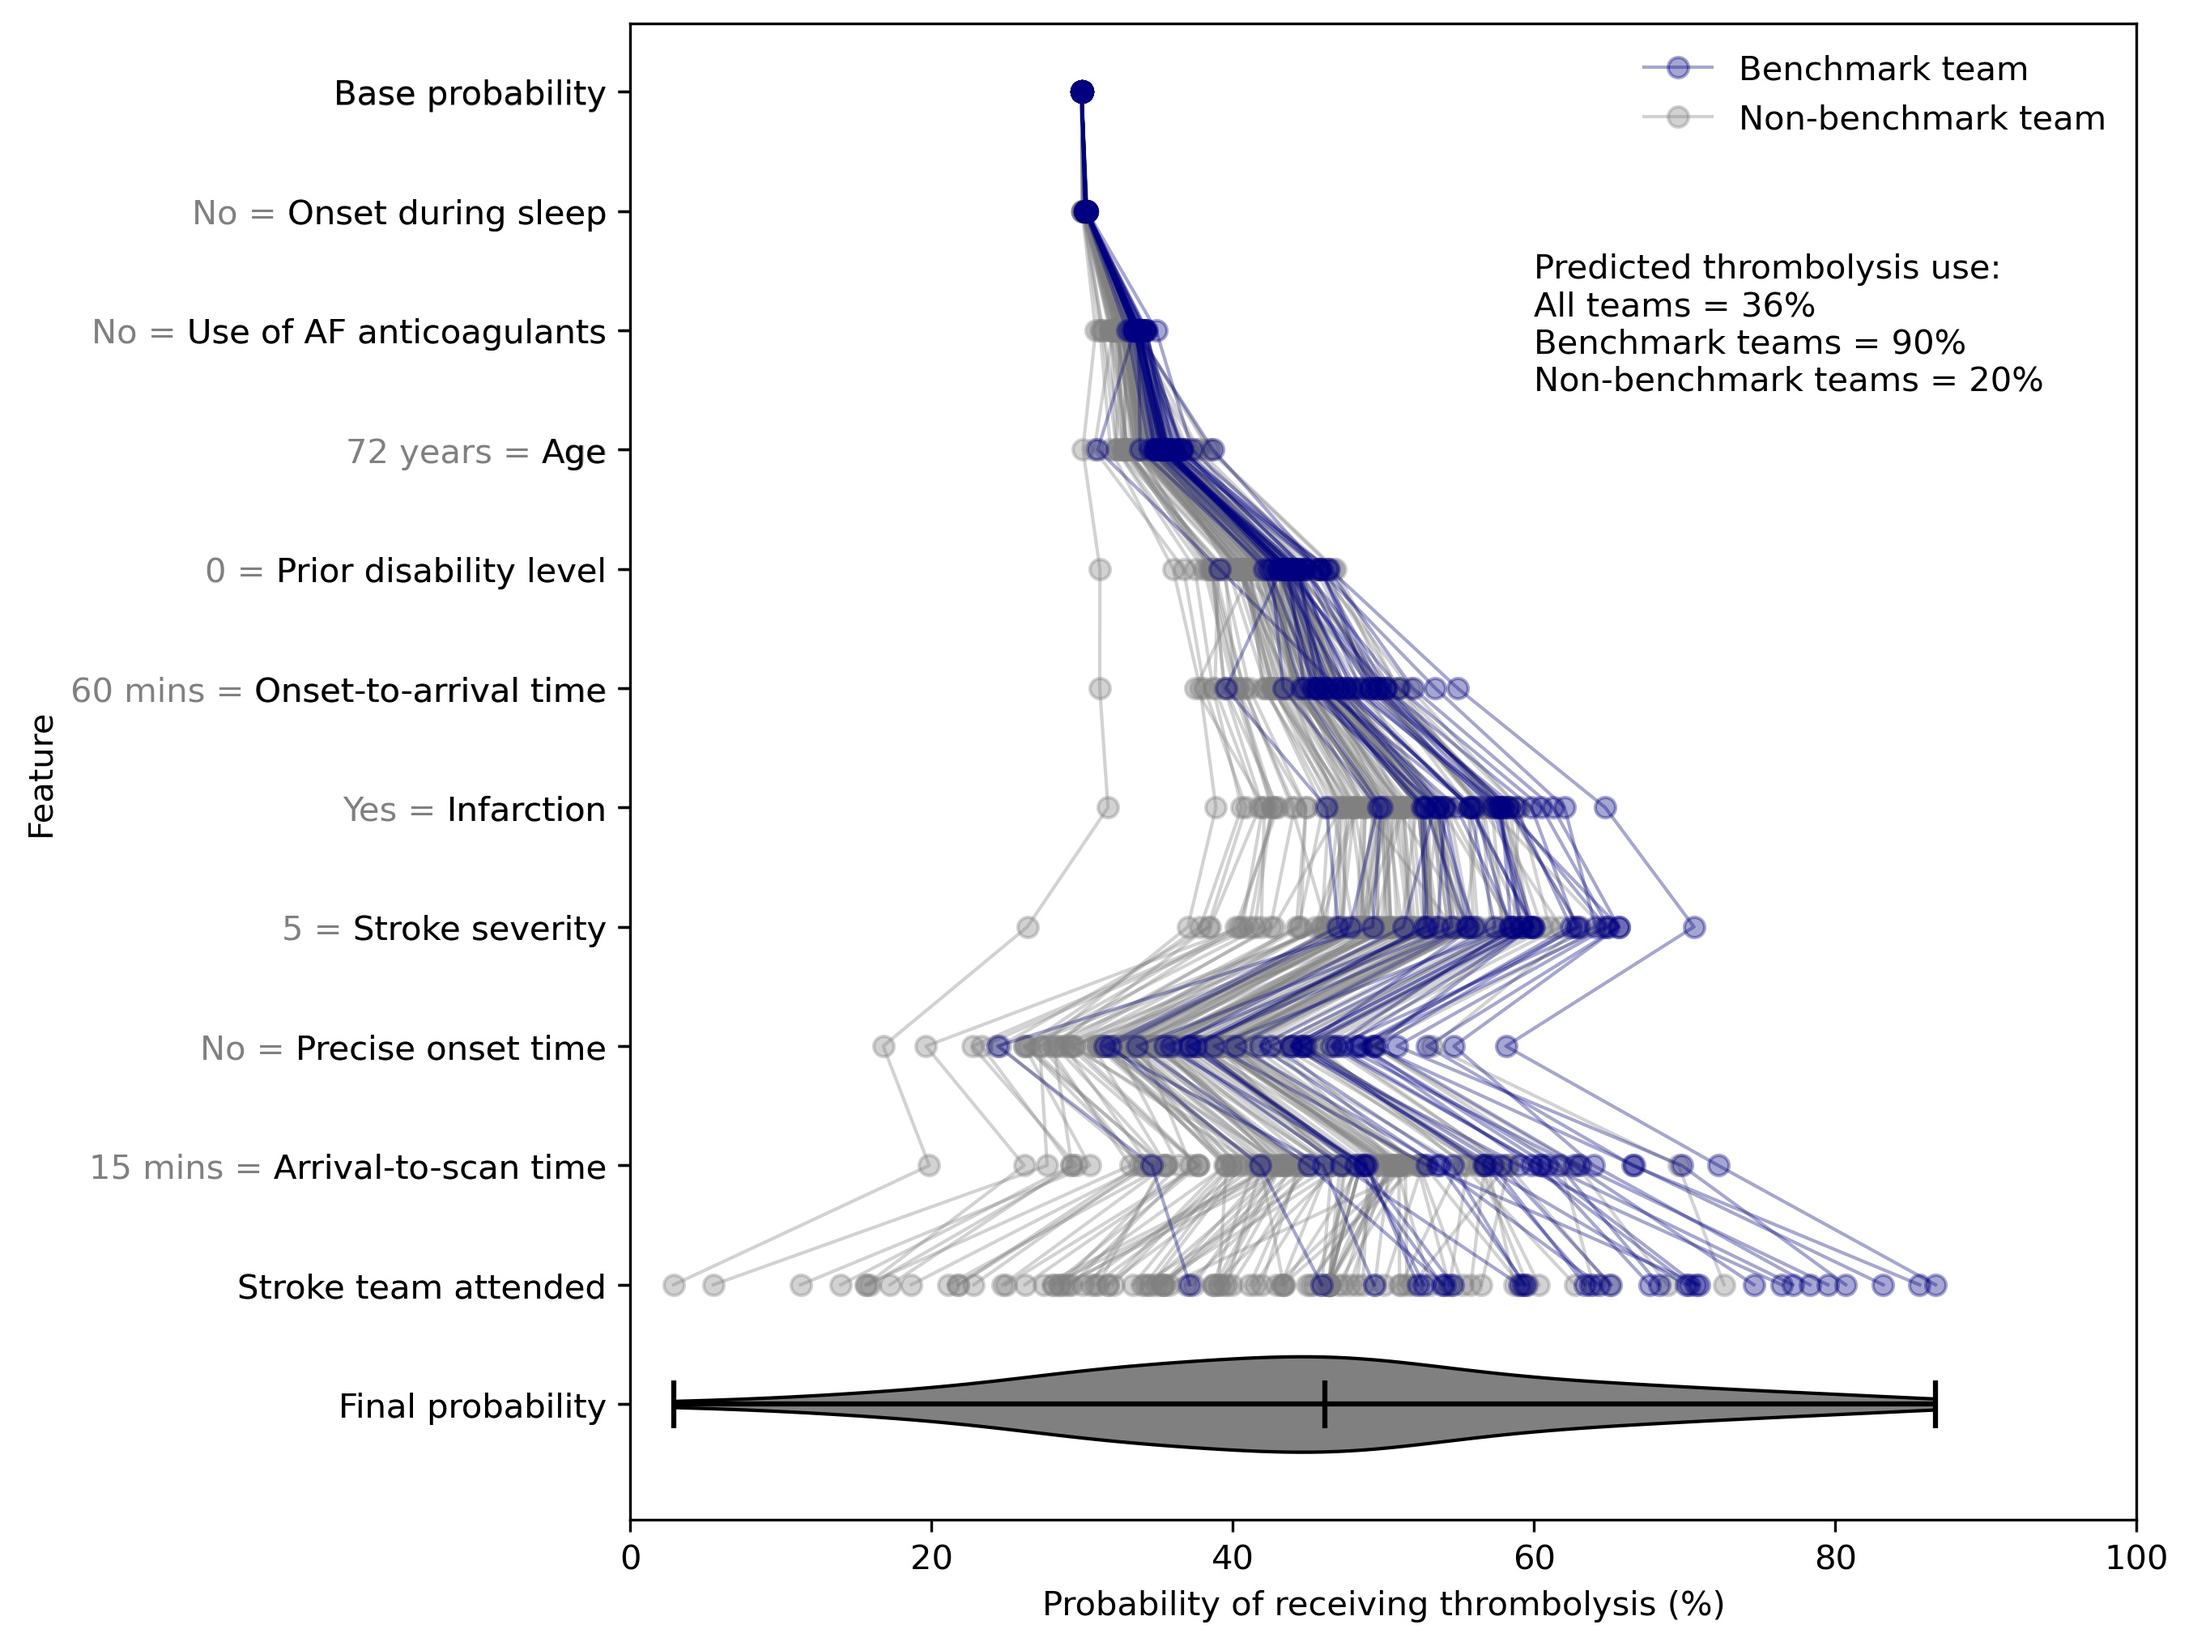
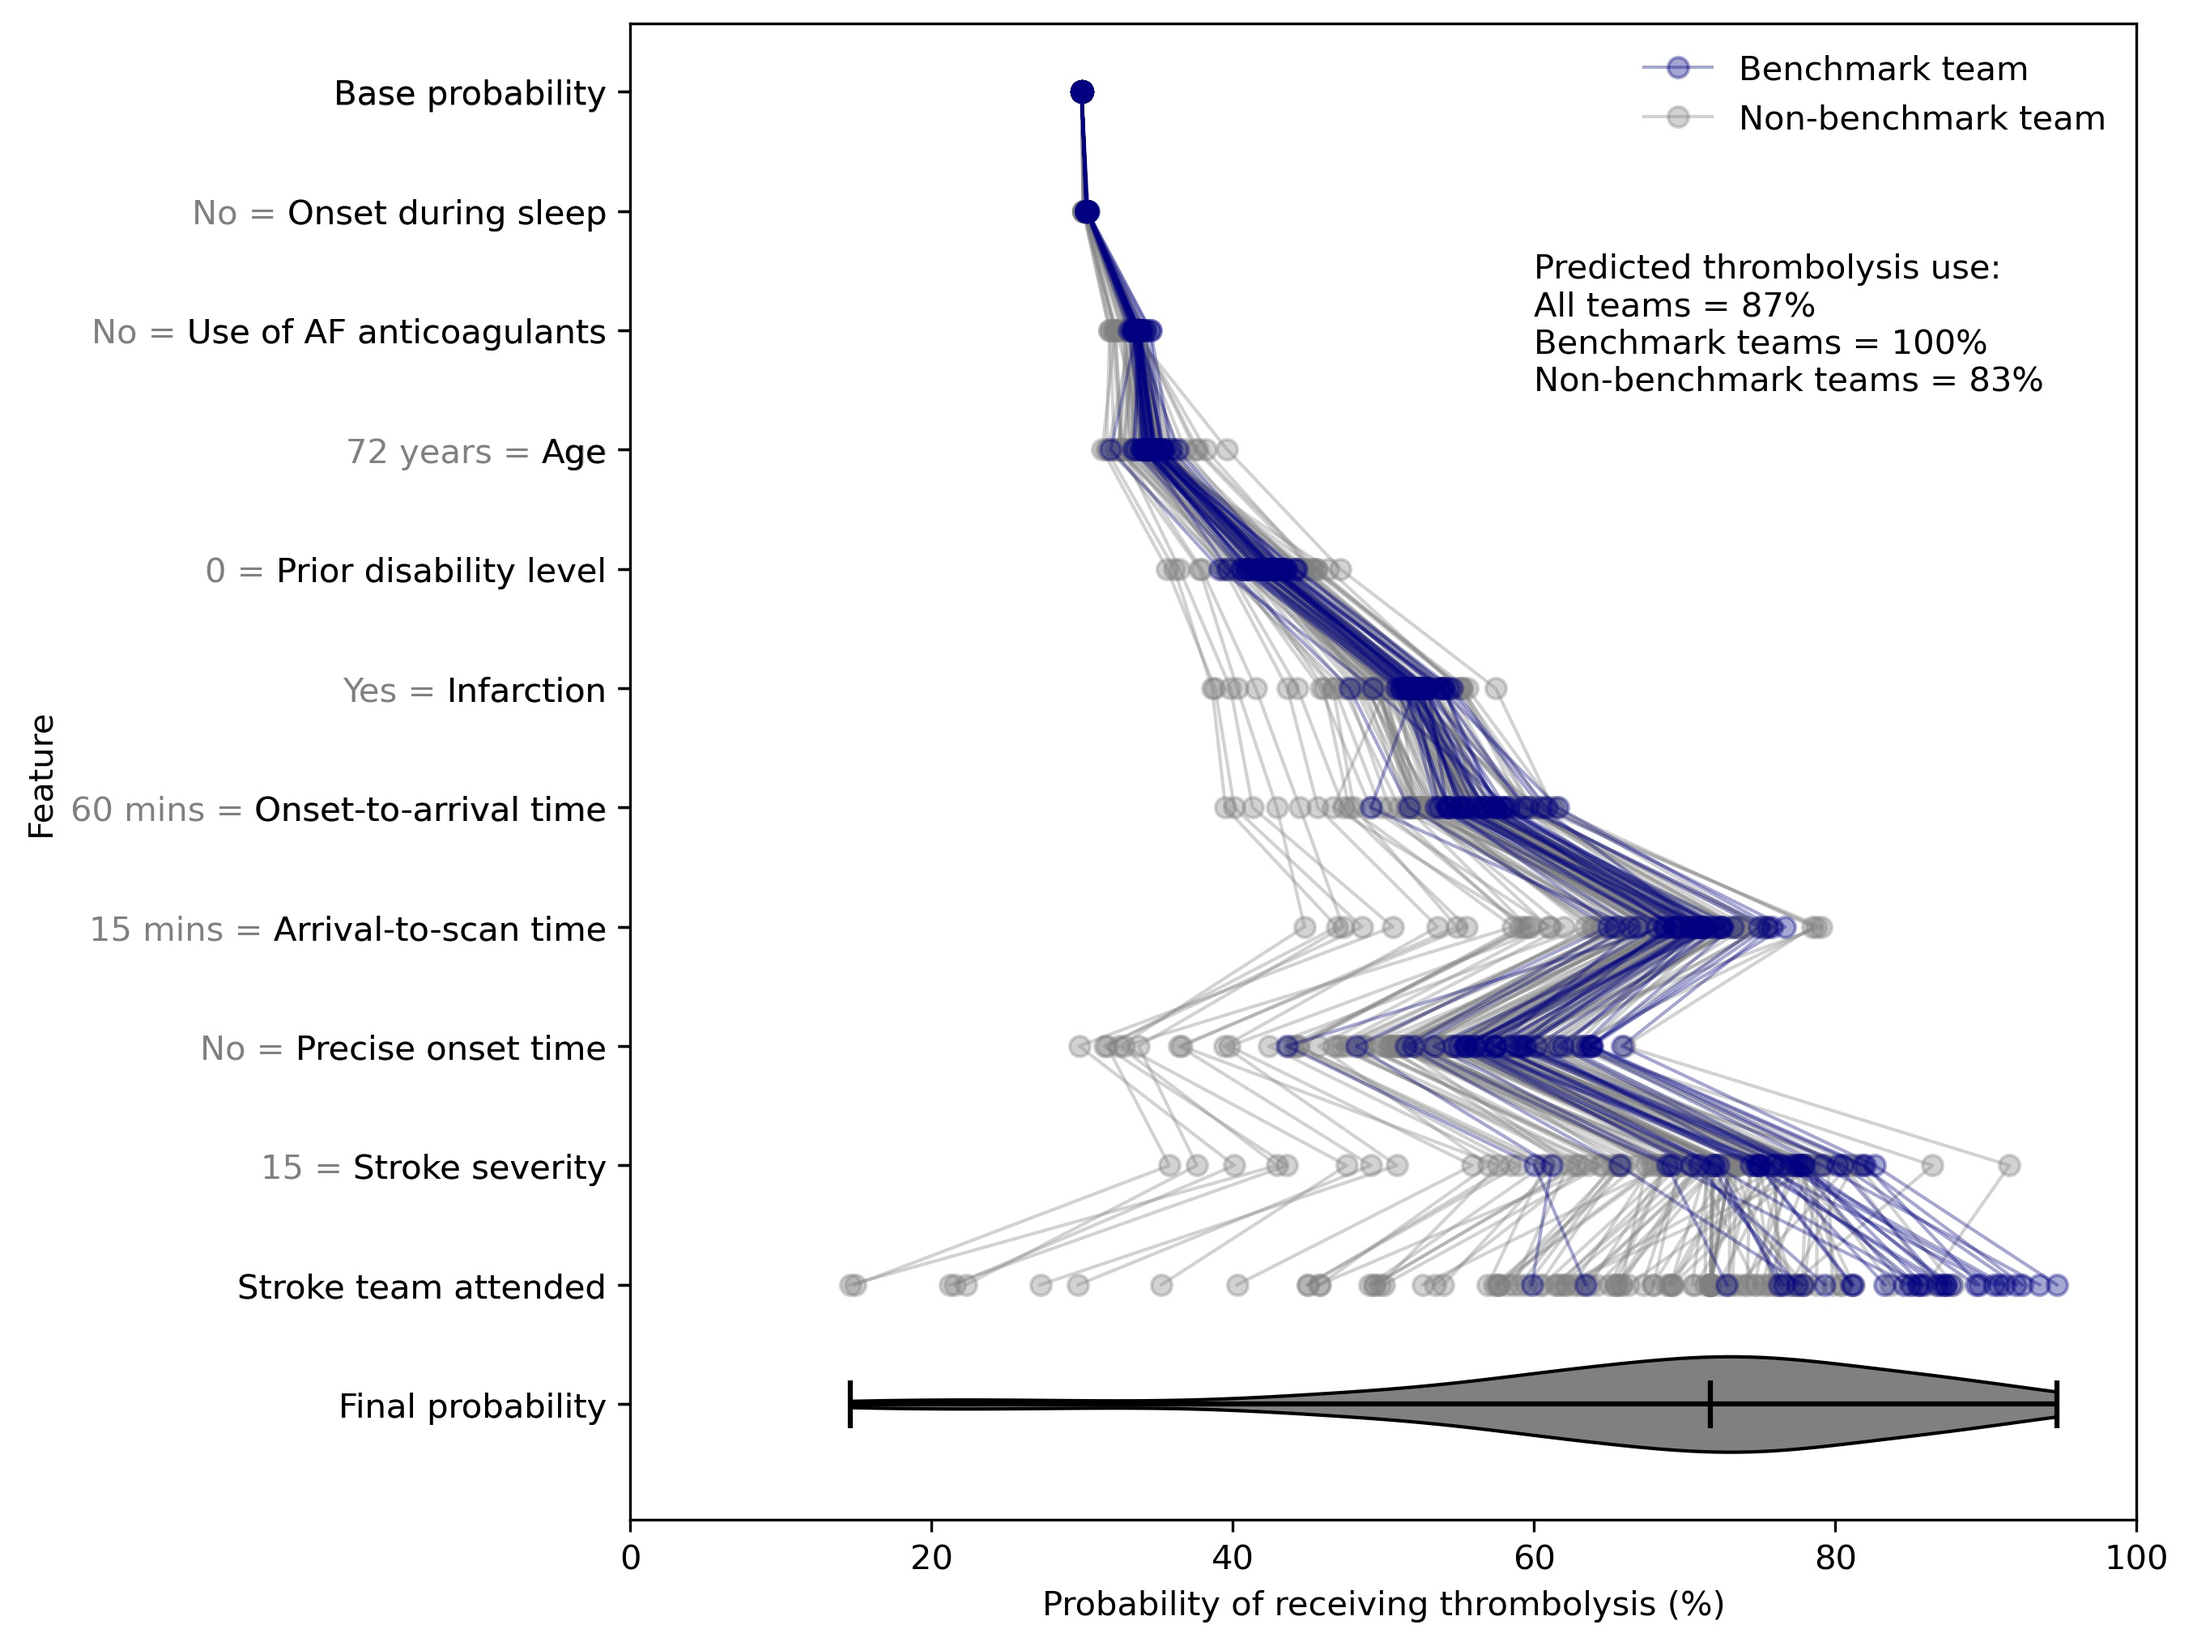
Update intro

diff --git a/introduction/intro.md b/introduction/intro.md
@@ -16,7 +16,9 @@ We found general patterns of use of thrombolysis. When we looked for patterns of
 
 * The odds of receiving thrombolysis fell about 5 fold with increasing pre-stroke disability.
 
-* There was a 15 fold difference in the odds of receiving thrombolysis between hospitals. The difference between hospitals accounted for about 60% of the variance in use of thrombolysis for patients who arrived at hospital within 4 hours of known stroke onset time; 40% of the variance in treatment of these patients was due to differences in patient populations between hospitals. 
+* There was a 15 fold difference in the odds of receiving thrombolysis between hospitals. The difference between hospitals accounted for about 60% of the variance in use of thrombolysis for patients who arrived at hospital within 4 hours of known stroke onset time; 40% of the variance in treatment of these patients was due to differences in patient populations between hospitals.
+
+* The hospital, rather than differences in local patient populations, explains the majority of variation in thrombolysis use between hospitals.
 
 * In both observed (actual) data, and predicted use of thrombolysis, we examined subgroups of patients. We could identify a group of patients to whom essentially all stroke teams would give thrombolysis. We then found groups of patients where hospitals would vary in their attitude to use of  thrombolysis, with some hospitals not giving thrombolysis to any patients and other hopsitals giving thrombolysis to 30-40% of patients who arrived at hospital within 4 hours of known stroke onset time. Key groups where hospitals differed in their use of thrombolysis were:
     * Low stroke severity (e.g. NIHSS <5)
@@ -24,6 +26,8 @@ We found general patterns of use of thrombolysis. When we looked for patterns of
     * The existence of pre-stroke disability
     
 * Combinations of non-ideal features (e.g. mild stroke *and* stroke onset time not known precisely) further suppressed use of thrombolysis.
+
+* Artificial patients may be used to ask particular questions about predicted variation in thrombolysis use.
 
 ## Background
 
@@ -164,3 +168,28 @@ We can also look at how a hospital's SHAP value correlates with the thrombolysis
 <img src="./images/hospital_shap_own_patients.jpg" width="450">
 
 *A comparison of average hospital SHAP values with actual hospital thrombolysis use for patients arriving within 4 hours of known stroke onset.*
+
+### Using artificial patients
+
+We may construct artificial patients to compare decision-making with a particular focus. 
+
+For example we may start with a highly thrombolysable patient:
+
+* Infarction = Yes
+* Stroke severity (NIHSS) = 15
+* Precise onset time = Yes
+* Disability (mRS) before stroke = 0
+* Age = 72
+* Onset-to-arrival = 60 minutes
+* Arrival-to-scan = 15 minutes
+* Use of anticoagulants for AF = No
+* Onset during sleep = No
+
+For such a patient we find 131/132 would be expected to give them thrombolysis. 
+
+If we change only stroke severity (NIHSS) to 5, we find 95% of stroke teams would be expected to give them thrombolysis.
+
+If we change only precise onset time to 'No', we find 87% of stroke teams would be expected to give them thrombolysis.
+
+If we change both stroke severity (NIHSS) to 5, and precise onset time to 'No', we find 35% of stroke teams would be expected to give them thrombolysis.
+
